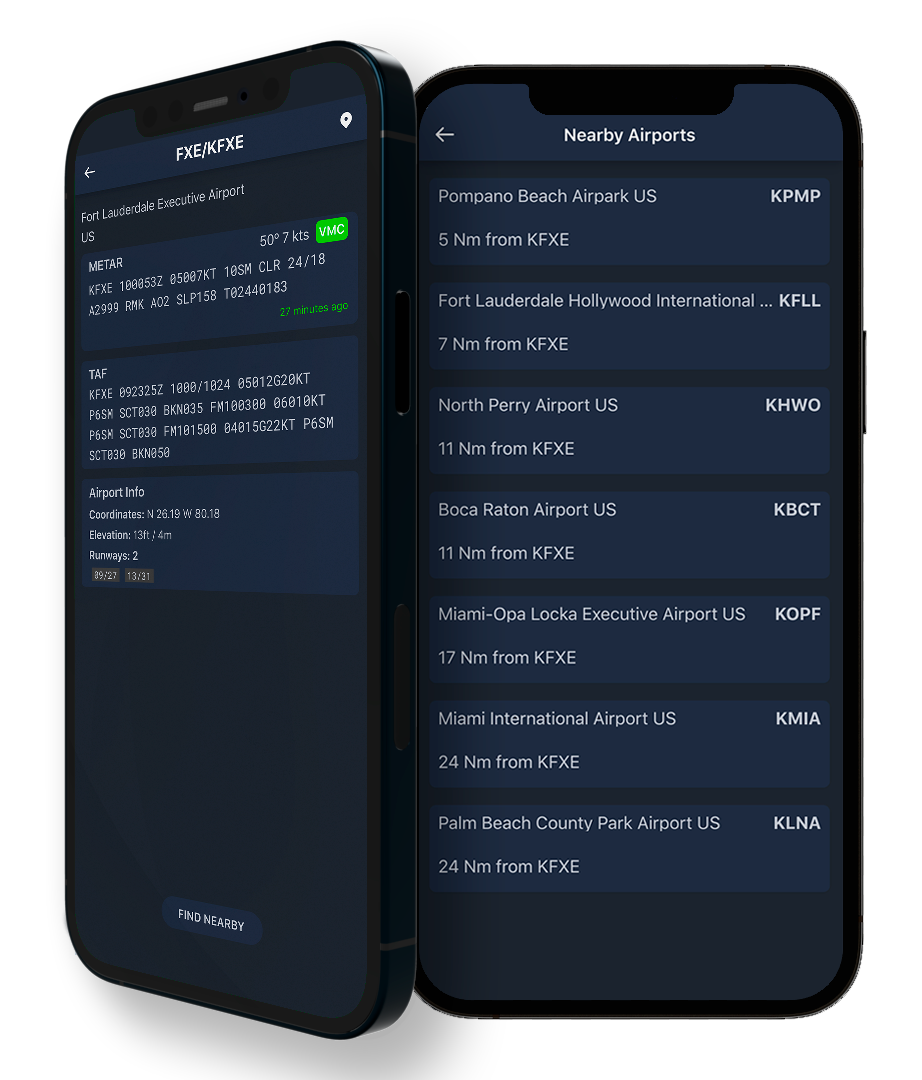
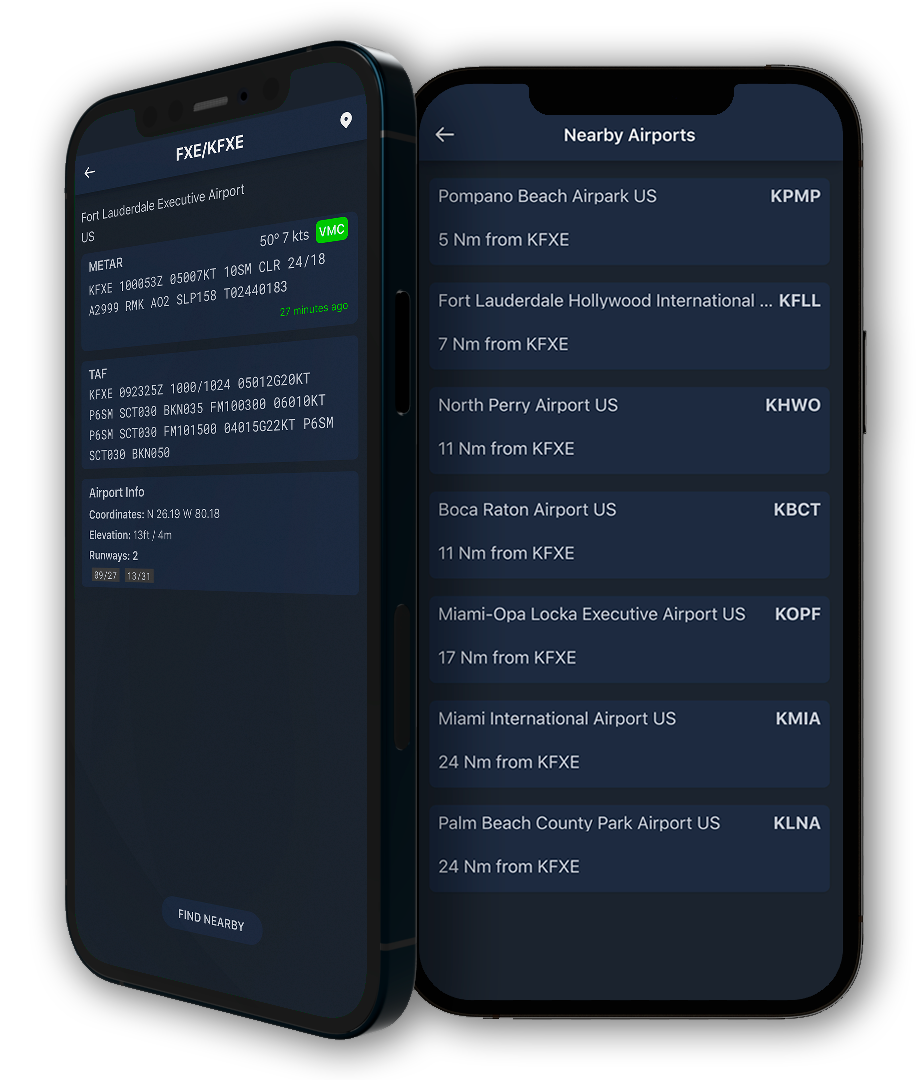
Fix: small screens

Changed region(s): [[0.0304, 0.0, 0.9718, 1.0]]

diff --git a/src/components/sections/Rickandmorty.jsx b/src/components/sections/Rickandmorty.jsx
@@ -8,7 +8,7 @@ const Rickandmorty = () => {
       className="w-full max-w-3xl h-full min-h-screen flex flex-col justify-center items-center text-center"
     >
       <h1 className="text-3xl font-semibold">Rick and Morty</h1>
-      <div className="w-full my-16 max-w-md">
+      <div className="w-[60%] md:w-full my-16 max-w-md">
         <Image
           src="/projects/rickandmorty.png"
           width={646}

diff --git a/src/components/sections/Coffeeshop.jsx b/src/components/sections/Coffeeshop.jsx
@@ -8,7 +8,7 @@ const Coffeeshop = () => {
       className="w-full max-w-3xl h-full min-h-screen flex flex-col justify-center items-center text-center"
     >
       <h1 className="text-3xl font-semibold mb-5">Coffeeshop</h1>
-      <div className="w-full max-w-sm">
+      <div className="w-[60%] md:w-full max-w-sm">
         <Image
           src="/projects/coffeeshop.png"
           width={922}

diff --git a/src/components/sections/Avweather.jsx b/src/components/sections/Avweather.jsx
@@ -8,7 +8,7 @@ const Avweather = () => {
       className="w-full max-w-3xl h-full min-h-screen flex flex-col justify-center items-center text-center"
     >
       <h1 className="text-3xl font-semibold mb-5">AvWeather</h1>
-      <div className="w-full max-w-sm">
+      <div className="w-[60%] md:w-full max-w-sm">
         <Image
           src="/projects/avweather.png"
           width={922}
